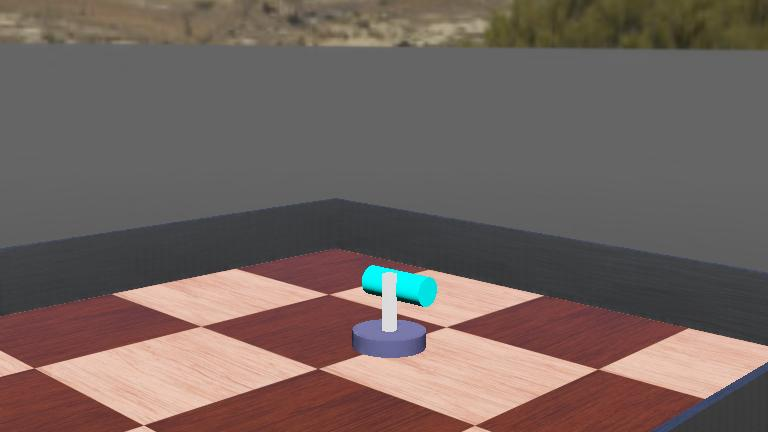
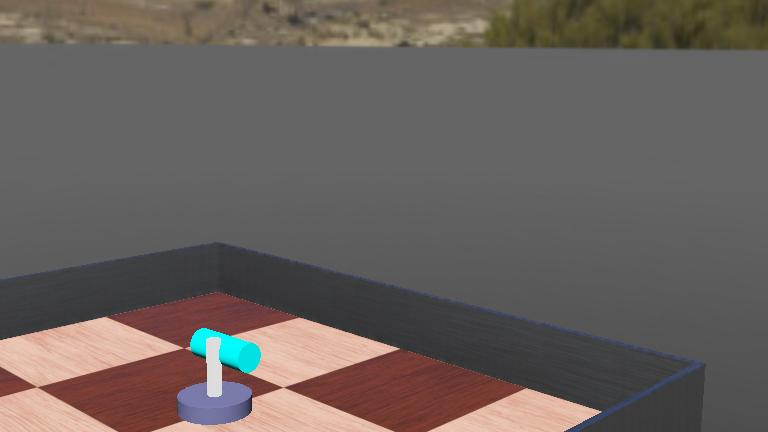
maj

diff --git a/controllers/GoTo1/GoTo1.py b/controllers/GoTo1/GoTo1.py
@@ -4,17 +4,17 @@ from astropy.coordinates import get_body, AltAz, EarthLocation
 from astropy.time import Time
 import astropy.units as u
 
-ASTRE_CIBLE = "sun" 
-EMPLACEMENT = EarthLocation(lat=48.5720219, lon=7.766944, height=35*u.m)
+ASTRE_CIBLE = "uranus" 
+location = EarthLocation(lat=43.6109, lon=3.8772, height=35*u.m)
 
 # Sens des moteurs
 SENS_AZIMUT = 1    
 SENS_ALTITUDE = -1   
 
 # Gains PID
-Kp_init, Ki_init, Kd_init = 3.5, 0.02, 0.15
+Kp_init, Ki_init, Kd_init = 4, 0.02, 0.15
 Kp_az, Ki_az, Kd_az = 1.5, 0.01, 0.1
-Kp_alt, Ki_alt, Kd_alt = 5, 0.02, 0.2
+Kp_alt, Ki_alt, Kd_alt = 8, 0.02, 0.2
 
 # ==========================================
 # INITIALISATION
@@ -26,13 +26,13 @@ moteur_az = robot.getDevice("azimuth motor")
 moteur_alt = robot.getDevice("altitude motor")
 capteur_az = robot.getDevice("azimuth sensor")
 capteur_alt = robot.getDevice("altitude sensor")
-centrale_inertielle = robot.getDevice("inertial unit")
+IMU = robot.getDevice("inertial unit")
 
 for m in [moteur_az, moteur_alt]:
     m.setPosition(float('inf'))
     m.setVelocity(0.0)
 
-for s in [capteur_az, capteur_alt, centrale_inertielle]:
+for s in [capteur_az, capteur_alt, IMU]:
     s.enable(pas_de_temps)
 
 camera = robot.getDevice("camera")
@@ -42,7 +42,7 @@ camera.enable(pas_de_temps)
 etat = "RECHERCHE_NORD" 
 offset_enc_az = offset_enc_alt = 0
 integrale_init = erreur_precedente_init = 0
-cible_az_init = 0.0  # On cherche le Nord (0°)
+cible_az_init = 0.0  # On cherche le Nord (0°) à l'aide du gyroscope
 
 integrales_suivi = {"az": 0, "alt": 0}
 erreurs_prec_suivi = {"az": 0, "alt": 0}
@@ -50,6 +50,37 @@ erreurs_prec_suivi = {"az": 0, "alt": 0}
 noeud_cible = robot.getFromDef("TARGET_SPHERE")
 noeud_robot = robot.getSelf() 
 distance_visuelle = 30
+
+
+def wait_webots(ms):
+    start_time = robot.getTime()
+    while robot.step(timestep) != -1:
+        if robot.getTime() - start_time >= ms / 1000.0:
+            break
+            
+            
+DEG_PAR_PAS=1.8 #0.01
+current_ang=0
+
+def Step(x, steps_per_rev=200):
+    global current_ang
+    current = current_ang # On met à jour la variable locale de l'angle actuel avec sa valeur globale
+    nouvelle_cible = current + x * math.pi/180*DEG_PAR_PAS # Calcule le nouvel angle en fonction du degré par pas (résolution) du moteur pas à pas
+    motor.setPosition(nouvelle_cible)
+    #print("Valeur théorique : ", round(current*180/math.pi,5),"Valeur réelle : ", sensor.getValue()*180/math.pi)
+    current_ang=nouvelle_cible # On met à jour la variable globale de l'angle actuel avec sa nouvelle valeur
+
+    #print(f"Nouvelle cible : {math.degrees(nouvelle_cible):.2f}°")
+
+def StepPosition(ang):
+    #global current_ang
+    az_pos_re=math.degrees(sensor.getValue())
+    while (abs((az_pos_re-ang))>0.5):
+        az_pos_re=math.degrees(sensor.getValue())
+        print(abs((az_pos_re-ang)))
+        Step(1)
+        wait_webots(50) # Remplace time.sleep()
+
 
 print("--- RECHERCHE DU NORD (+X) ---")
 
@@ -66,13 +97,13 @@ while robot.step(pas_de_temps) != -1:
     # PHASE 1 : RECHERCHE DU NORD (PID + IMU)
     # ==========================================
     if etat == "RECHERCHE_NORD":
-        rpy = centrale_inertielle.getRollPitchYaw()
-        if math.isnan(rpy[0]): continue
+        rpy = IMU.getRollPitchYaw()
+        if math.isnan(rpy[0]): continue # Si la matrice contient "null" on quitte la condition if
 
-        azimut_actuel_imu = math.degrees(rpy[2]) # Lacet (Yaw)
+        azimut_actuel_imu = math.degrees(rpy[2]) # Lacet (Yaw) axe +Z
         erreur = cible_az_init - azimut_actuel_imu
         
-        # Gestion du passage 180/-180
+        
         if erreur > 180: erreur -= 360
         elif erreur < -180: erreur += 360
 
@@ -85,18 +116,18 @@ while robot.step(pas_de_temps) != -1:
         erreur_precedente_init = erreur
 
         if temps_simu % 0.5 < dt:
-            print(f"INITIALISATION | Nord (+X) | IMU: {azimut_actuel_imu:>7.2f}° | Err: {erreur:>8.3f}°")
+            print(f"INITIALISATION | Nord (axe +X) | IMU: {azimut_actuel_imu:>7.2f}° | Err: {erreur:>8.3f}°")
 
         # Si on est stable ou que le temps est écoulé
-        if (abs(erreur) < 0.05 and abs(vitesse) < 0.01) or temps_simu > 15.0:
+        if (abs(erreur) < 0.25 and abs(vitesse) < 0.01) or temps_simu > 15.0:
             moteur_az.setVelocity(0)
             offset_enc_az = enc_az - (azimut_actuel_imu / SENS_AZIMUT)
             offset_enc_alt = enc_alt 
             etat = "SUIVI_ASTRE"
-            print("\n--- BASCULE EN MODE SUIVI ---\n")
+            print("Mode suivi")
 
     # ==========================================
-    # PHASE 2 : SUIVI (PID + ENCODEURS)
+    # PHASE 2 : SUIVI (PID avec ENCODEURS)
     # ==========================================
     elif etat == "SUIVI_ASTRE":
         azimut_actuel = ((enc_az - offset_enc_az) * SENS_AZIMUT) % 360.0
@@ -104,16 +135,19 @@ while robot.step(pas_de_temps) != -1:
 
         # Calcul de la position de l'astre avec Astropy
         with u.set_enabled_equivalencies(u.dimensionless_angles()):
-            corps = get_body(ASTRE_CIBLE, maintenant, EMPLACEMENT)
-            coordonnees = corps.transform_to(AltAz(obstime=maintenant, location=EMPLACEMENT))
+            corps = get_body(ASTRE_CIBLE, maintenant, location)
+            coordonnees = corps.transform_to(AltAz(obstime=maintenant, location=location))
             cible_az = coordonnees.az.deg
             cible_alt = coordonnees.alt.deg
 
         # Calcul des erreurs de suivi
         err_az = cible_az - azimut_actuel
+        err_alt = cible_alt - altitude_actuelle
+        
+       
         if err_az > 180: err_az -= 360
         elif err_az < -180: err_az += 360
-        err_alt = cible_alt - altitude_actuelle
+ 
 
         # PID Azimut
         integrales_suivi["az"] += err_az * dt
@@ -124,12 +158,12 @@ while robot.step(pas_de_temps) != -1:
         v_alt = (Kp_alt * err_alt) + (Ki_alt * integrales_suivi["alt"]) + (Kd_alt * (err_alt - erreurs_prec_suivi["alt"])/dt)
 
         moteur_az.setVelocity(max(min(math.radians(v_az), 2.0), -2.0) * SENS_AZIMUT)
-        moteur_alt.setVelocity(max(min(math.radians(v_alt), 1.5), -1.5) * SENS_ALTITUDE)
+        moteur_alt.setVelocity(max(min(math.radians(v_alt), 4), -1.5) * SENS_ALTITUDE)
         
         erreurs_prec_suivi["az"], erreurs_prec_suivi["alt"] = err_az, err_alt
 
         # ==========================================
-        # MISE À JOUR DE LA SPHÈRE VISUELLE
+        # MAJ de la planète
         # ==========================================
         if noeud_cible and noeud_robot:
             az_rad = math.radians(cible_az)

diff --git a/controllers/stepper_motor/stepper_motor.py b/controllers/stepper_motor/stepper_motor.py
@@ -1,5 +1,6 @@
 from controller import Robot
 import math
+from numpy import sign
 
 robot = Robot()
 timestep = int(robot.getBasicTimeStep())
@@ -17,7 +18,7 @@ def wait_webots(ms):
             break
             
             
-DEG_PAR_PAS=0.01
+DEG_PAR_PAS=1.8 #0.01
 current_ang=0
 
 def Step(x, steps_per_rev=200):
@@ -26,20 +27,26 @@ def Step(x, steps_per_rev=200):
     nouvelle_cible = current + x * math.pi/180*DEG_PAR_PAS # Calcule le nouvel angle en fonction du degré par pas (résolution) du moteur pas à pas
     
     motor.setPosition(nouvelle_cible)
-    print("Valeur théorique : ", round(current*180/math.pi,5),"Valeur réelle : ", sensor.getValue()*180/math.pi)
+    #print("Valeur théorique : ", round(current*180/math.pi,5),"Valeur réelle : ", sensor.getValue()*180/math.pi)
     current_ang=nouvelle_cible # On met à jour la variable globale de l'angle actuel avec sa nouvelle valeur
 
-    print(f"Pas effectué. Nouvelle cible : {math.degrees(nouvelle_cible):.2f}°")
+    #print(f"Nouvelle cible : {math.degrees(nouvelle_cible):.2f}°")
 
+def StepPosition(ang):
+    az_pos_re=math.degrees(sensor.getValue())
+    erreur=abs((az_pos_re-ang))
+    while (erreur>0.5):
+        az_pos_re=math.degrees(sensor.getValue())
+        print(f"erreur : {erreur} position réelle : {az_pos_re}")
+        Step(1*sign(az_pos_re-ang))
+        erreur=abs((az_pos_re-ang))
+        wait_webots(50) # Remplace time.sleep()
+    
+    
 # Initialisation
 robot.step(timestep)
-motor.setVelocity(0.5)
+motor.setVelocity(0.5) # Vitesse du changement de pas
 
-while robot.step(timestep) != -1:
-    # Faire 50 pas un par un vers l'avant
-    print("Début séquence avant...")
-    for i in range(9000):
-        Step(1)
-        wait_webots(500) # Remplace time.sleep(0.25)
-        
-    
+StepPosition(45)
+wait_webots(1000)
+StepPosition(271.63)

diff --git a/controllers/GoTo2-cameraTrack/GoTo2-cameraTrack.py b/controllers/GoTo2-cameraTrack/GoTo2-cameraTrack.py
@@ -13,7 +13,7 @@ LOCATION = EarthLocation(lat=48.5720219, lon=7.766944, height=35*u.m)
 SENS_AZ = 1      
 SENS_ALT = -1   
 
-# --- GAINS STABILISÉS ---
+# GAINS PID 
 Kp_h, Ki_h, Kd_h = 2.0, 0.01, 0.5
 Kp_az, Ki_az, Kd_az = 1.0, 0.005, 0.2
 Kp_alt, Ki_alt, Kd_alt = 2.0, 0.01, 0.3